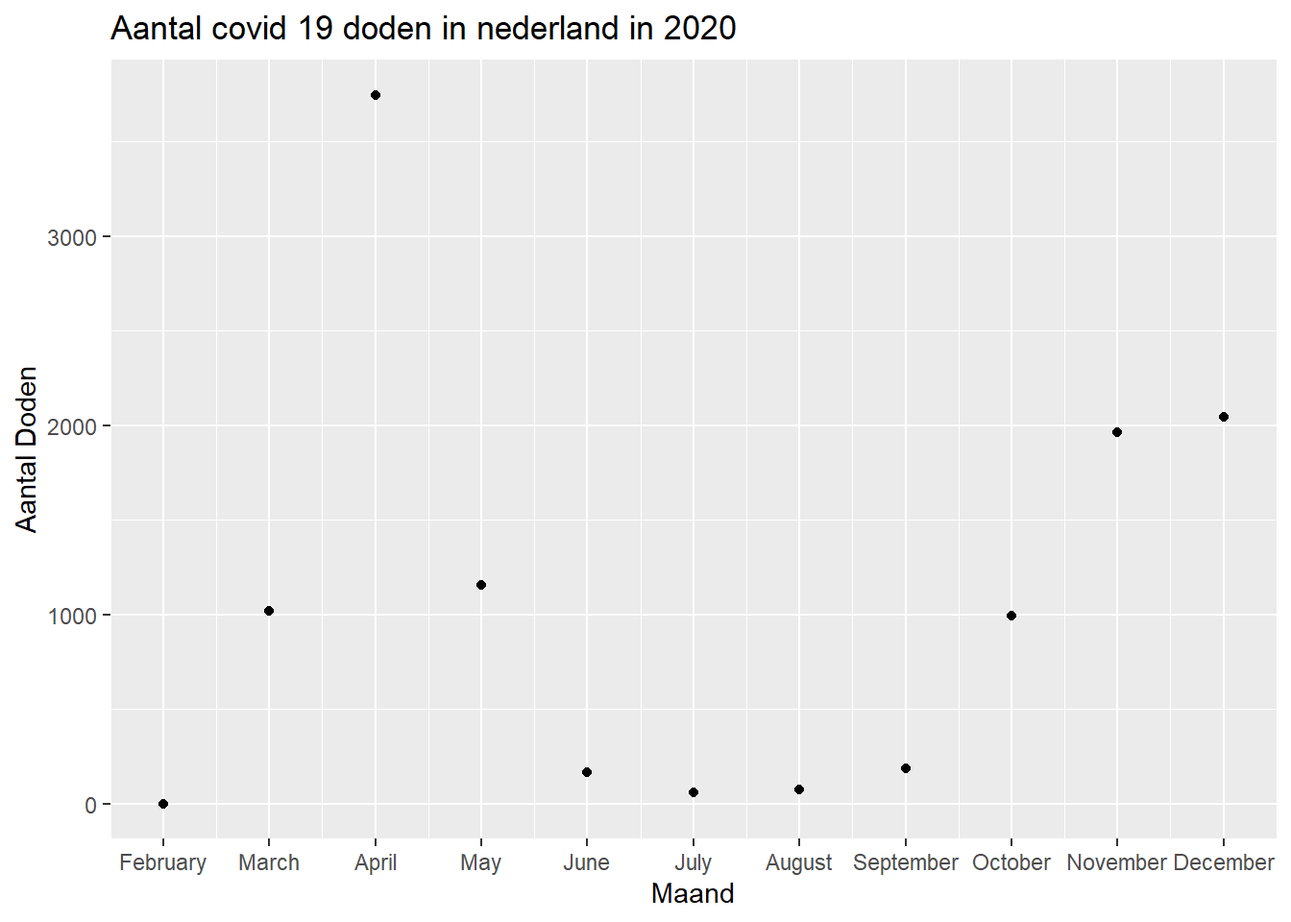
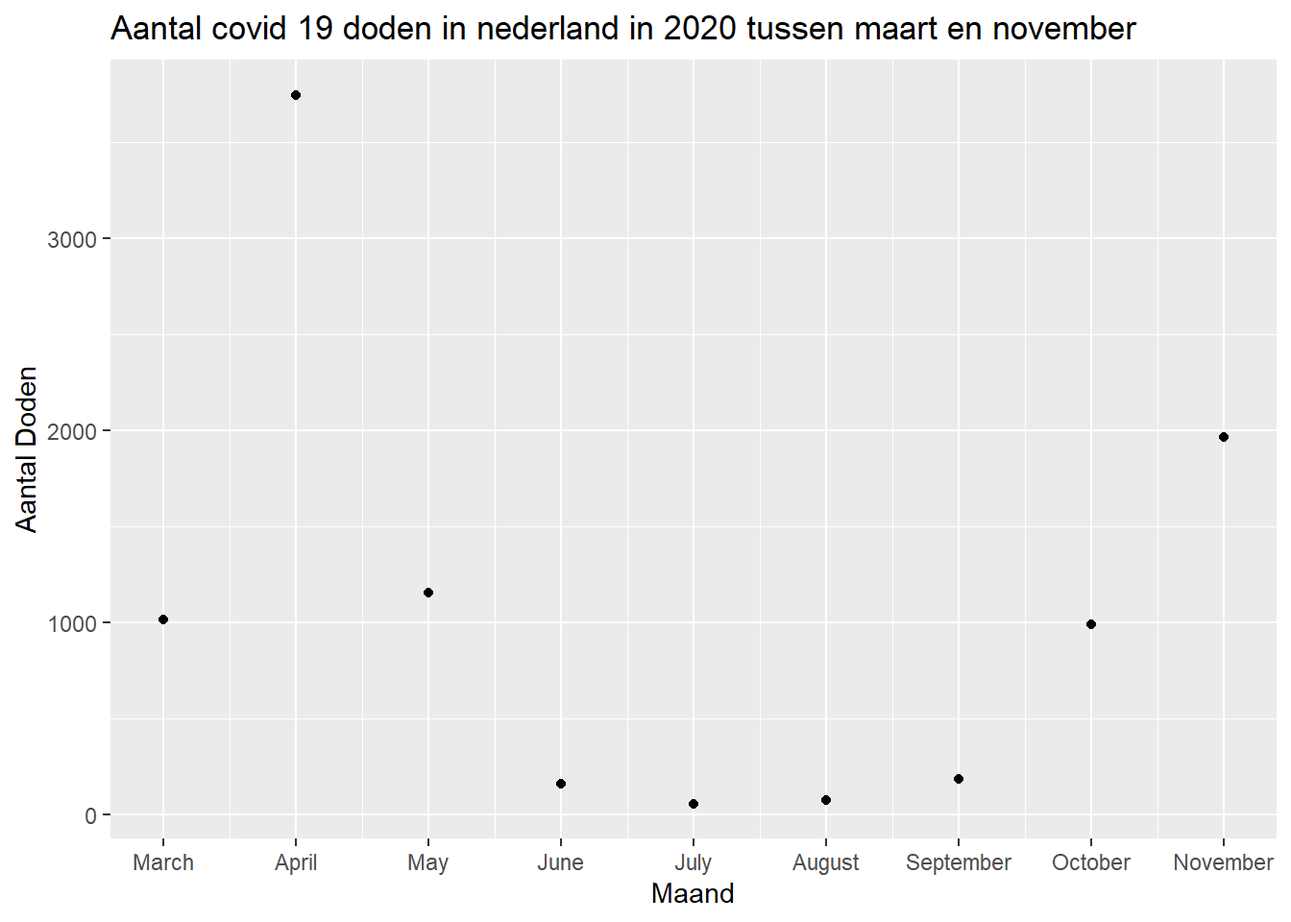
toevoegen opdracht 9 met parametrisering

diff --git a/Portfolio/_book/opdracht-9-rmarkdown-parameters-presentations.html b/Portfolio/_book/opdracht-9-rmarkdown-parameters-presentations.html
@@ -156,8 +156,8 @@ code span.wa { color: #60a0b0; font-weight: bold; font-style: italic; } /* Warni
 <li class="chapter" data-level="" data-path="opdracht-8-een-r-package-bouwen.html"><a href="opdracht-8-een-r-package-bouwen.html"><i class="fa fa-check"></i>Opdracht 8: Een R package bouwen</a></li>
 <li class="chapter" data-level="" data-path="opdracht-9-rmarkdown-parameters-presentations.html"><a href="opdracht-9-rmarkdown-parameters-presentations.html"><i class="fa fa-check"></i>Opdracht 9: RMarkdown parameters &amp; presentations</a>
 <ul>
-<li class="chapter" data-level="" data-path="opdracht-9-rmarkdown-parameters-presentations.html"><a href="opdracht-9-rmarkdown-parameters-presentations.html#covid-19-rapport-zonder-parametrisering"><i class="fa fa-check"></i>COVID-19-rapport zonder parametrisering</a></li>
-<li class="chapter" data-level="" data-path="opdracht-9-rmarkdown-parameters-presentations.html"><a href="opdracht-9-rmarkdown-parameters-presentations.html#covid-19-rapport-met-parametrisering"><i class="fa fa-check"></i>COVID-19-rapport met parametrisering</a></li>
+<li class="chapter" data-level="" data-path="opdracht-9-rmarkdown-parameters-presentations.html"><a href="opdracht-9-rmarkdown-parameters-presentations.html#covid-19-rapport-zonder-parametrisering"><i class="fa fa-check"></i>9.1: COVID-19-rapport zonder parametrisering</a></li>
+<li class="chapter" data-level="" data-path="opdracht-9-rmarkdown-parameters-presentations.html"><a href="opdracht-9-rmarkdown-parameters-presentations.html#covid-19-rapport-met-parametrisering"><i class="fa fa-check"></i>9.2: COVID-19-rapport met parametrisering</a></li>
 </ul></li>
 </ul>
 
@@ -180,47 +180,106 @@ code span.wa { color: #60a0b0; font-weight: bold; font-style: italic; } /* Warni
 <h1>Opdracht 9: RMarkdown parameters &amp; presentations<a href="opdracht-9-rmarkdown-parameters-presentations.html#opdracht-9-rmarkdown-parameters-presentations" class="anchor-section" aria-label="Anchor link to header"></a></h1>
 <p>In deze opdracht zal er een geparametriseert rapport gecreëerd worden voor COVID-19-gevallen. Het rapport zal interactief zijn, zodat gebruikers parameters kunnen instellen zoals land, jaar en periode. We zullen gebruikmaken van COVID-19-casegegevens van het ECDC en grafieken tonen voor gevallen en sterfgevallen. Het uiteindelijke rapport zal een flexibel en informatief middel zijn om COVID-19-gegevens te verkennen op basis van specifieke criteria.</p>
 <div id="covid-19-rapport-zonder-parametrisering" class="section level2 hasAnchor">
-<h2>COVID-19-rapport zonder parametrisering<a href="opdracht-9-rmarkdown-parameters-presentations.html#covid-19-rapport-zonder-parametrisering" class="anchor-section" aria-label="Anchor link to header"></a></h2>
+<h2>9.1: COVID-19-rapport zonder parametrisering<a href="opdracht-9-rmarkdown-parameters-presentations.html#covid-19-rapport-zonder-parametrisering" class="anchor-section" aria-label="Anchor link to header"></a></h2>
 <p>Eerst wordt de data ingeladen, omdat het een CSV bestand is wordt er gebruik gemaakt van de read.csv functie.</p>
 <div class="sourceCode" id="cb2"><pre class="sourceCode r"><code class="sourceCode r"><span id="cb2-1"><a href="opdracht-9-rmarkdown-parameters-presentations.html#cb2-1" aria-hidden="true" tabindex="-1"></a><span class="co"># inlezen van de data</span></span>
 <span id="cb2-2"><a href="opdracht-9-rmarkdown-parameters-presentations.html#cb2-2" aria-hidden="true" tabindex="-1"></a>covid_19_data <span class="ot">&lt;-</span> <span class="fu">read.csv</span>(<span class="st">&quot;~/HU_ILC_DS2/Datascience2_portfolio/data/data_portfolio_opdracht_9.csv&quot;</span>)</span></code></pre></div>
-<p>Vervolgens moet de data geselecteerd worden. Er is hier gekozen voor covid 19 gevallen en doden in 2020 in Nederland.</p>
-<div class="sourceCode" id="cb3"><pre class="sourceCode r"><code class="sourceCode r"><span id="cb3-1"><a href="opdracht-9-rmarkdown-parameters-presentations.html#cb3-1" aria-hidden="true" tabindex="-1"></a><span class="co">#dataset filteren voor 2020 en Nederland</span></span>
+<p>Vervolgens moet de data geselecteerd worden. Er is hier gekozen voor covid 19 gevallen en doden in 2020 in Nederland in de periode maart tot november.</p>
+<div class="sourceCode" id="cb3"><pre class="sourceCode r"><code class="sourceCode r"><span id="cb3-1"><a href="opdracht-9-rmarkdown-parameters-presentations.html#cb3-1" aria-hidden="true" tabindex="-1"></a><span class="co">#dataset filteren voor 2020 Nederland, en periode maart tot november</span></span>
 <span id="cb3-2"><a href="opdracht-9-rmarkdown-parameters-presentations.html#cb3-2" aria-hidden="true" tabindex="-1"></a>covid_19_data_filtered <span class="ot">&lt;-</span> covid_19_data <span class="sc">%&gt;%</span></span>
 <span id="cb3-3"><a href="opdracht-9-rmarkdown-parameters-presentations.html#cb3-3" aria-hidden="true" tabindex="-1"></a>  <span class="fu">filter</span>(year <span class="sc">==</span> <span class="dv">2020</span>,</span>
-<span id="cb3-4"><a href="opdracht-9-rmarkdown-parameters-presentations.html#cb3-4" aria-hidden="true" tabindex="-1"></a>  countriesAndTerritories <span class="sc">==</span> <span class="st">&quot;Netherlands&quot;</span>, )</span>
-<span id="cb3-5"><a href="opdracht-9-rmarkdown-parameters-presentations.html#cb3-5" aria-hidden="true" tabindex="-1"></a></span>
-<span id="cb3-6"><a href="opdracht-9-rmarkdown-parameters-presentations.html#cb3-6" aria-hidden="true" tabindex="-1"></a><span class="co">#berekenen van cases per maand</span></span>
-<span id="cb3-7"><a href="opdracht-9-rmarkdown-parameters-presentations.html#cb3-7" aria-hidden="true" tabindex="-1"></a>cases_per_maand <span class="ot">&lt;-</span> covid_19_data_filtered <span class="sc">%&gt;%</span></span>
-<span id="cb3-8"><a href="opdracht-9-rmarkdown-parameters-presentations.html#cb3-8" aria-hidden="true" tabindex="-1"></a>  <span class="fu">group_by</span>(month) <span class="sc">%&gt;%</span></span>
-<span id="cb3-9"><a href="opdracht-9-rmarkdown-parameters-presentations.html#cb3-9" aria-hidden="true" tabindex="-1"></a>  <span class="fu">summarise</span>(<span class="at">cases_per_maand =</span> <span class="fu">sum</span>(cases))</span>
-<span id="cb3-10"><a href="opdracht-9-rmarkdown-parameters-presentations.html#cb3-10" aria-hidden="true" tabindex="-1"></a></span>
+<span id="cb3-4"><a href="opdracht-9-rmarkdown-parameters-presentations.html#cb3-4" aria-hidden="true" tabindex="-1"></a>  countriesAndTerritories <span class="sc">==</span> <span class="st">&quot;Netherlands&quot;</span>, </span>
+<span id="cb3-5"><a href="opdracht-9-rmarkdown-parameters-presentations.html#cb3-5" aria-hidden="true" tabindex="-1"></a>  <span class="fu">between</span>(month, <span class="dv">3</span>, <span class="dv">11</span>), )</span>
+<span id="cb3-6"><a href="opdracht-9-rmarkdown-parameters-presentations.html#cb3-6" aria-hidden="true" tabindex="-1"></a>         </span>
+<span id="cb3-7"><a href="opdracht-9-rmarkdown-parameters-presentations.html#cb3-7" aria-hidden="true" tabindex="-1"></a><span class="co">#berekenen van het aantal cases per maand</span></span>
+<span id="cb3-8"><a href="opdracht-9-rmarkdown-parameters-presentations.html#cb3-8" aria-hidden="true" tabindex="-1"></a>cases_per_maand <span class="ot">&lt;-</span> covid_19_data_filtered <span class="sc">%&gt;%</span></span>
+<span id="cb3-9"><a href="opdracht-9-rmarkdown-parameters-presentations.html#cb3-9" aria-hidden="true" tabindex="-1"></a>  <span class="fu">group_by</span>(month) <span class="sc">%&gt;%</span></span>
+<span id="cb3-10"><a href="opdracht-9-rmarkdown-parameters-presentations.html#cb3-10" aria-hidden="true" tabindex="-1"></a>  <span class="fu">summarise</span>(<span class="at">cases_per_maand =</span> <span class="fu">sum</span>(cases))</span>
 <span id="cb3-11"><a href="opdracht-9-rmarkdown-parameters-presentations.html#cb3-11" aria-hidden="true" tabindex="-1"></a></span>
-<span id="cb3-12"><a href="opdracht-9-rmarkdown-parameters-presentations.html#cb3-12" aria-hidden="true" tabindex="-1"></a><span class="co">#berekenen van deaths per maand</span></span>
-<span id="cb3-13"><a href="opdracht-9-rmarkdown-parameters-presentations.html#cb3-13" aria-hidden="true" tabindex="-1"></a>deaths_per_maand <span class="ot">&lt;-</span> covid_19_data_filtered <span class="sc">%&gt;%</span></span>
-<span id="cb3-14"><a href="opdracht-9-rmarkdown-parameters-presentations.html#cb3-14" aria-hidden="true" tabindex="-1"></a>  <span class="fu">group_by</span>(month) <span class="sc">%&gt;%</span></span>
-<span id="cb3-15"><a href="opdracht-9-rmarkdown-parameters-presentations.html#cb3-15" aria-hidden="true" tabindex="-1"></a>  <span class="fu">summarise</span>(<span class="at">deaths_per_maand =</span> <span class="fu">sum</span>(deaths))</span></code></pre></div>
+<span id="cb3-12"><a href="opdracht-9-rmarkdown-parameters-presentations.html#cb3-12" aria-hidden="true" tabindex="-1"></a></span>
+<span id="cb3-13"><a href="opdracht-9-rmarkdown-parameters-presentations.html#cb3-13" aria-hidden="true" tabindex="-1"></a><span class="co">#berekenen van het aantal doden per maand</span></span>
+<span id="cb3-14"><a href="opdracht-9-rmarkdown-parameters-presentations.html#cb3-14" aria-hidden="true" tabindex="-1"></a>deaths_per_maand <span class="ot">&lt;-</span> covid_19_data_filtered <span class="sc">%&gt;%</span></span>
+<span id="cb3-15"><a href="opdracht-9-rmarkdown-parameters-presentations.html#cb3-15" aria-hidden="true" tabindex="-1"></a>  <span class="fu">group_by</span>(month) <span class="sc">%&gt;%</span></span>
+<span id="cb3-16"><a href="opdracht-9-rmarkdown-parameters-presentations.html#cb3-16" aria-hidden="true" tabindex="-1"></a>  <span class="fu">summarise</span>(<span class="at">deaths_per_maand =</span> <span class="fu">sum</span>(deaths))</span></code></pre></div>
 <p>Tot slot kan de verkregen data geplot worden, hiervoor wordt ggplot2 gebruikt. om de maanden te weergeven in de juiste volgorde is de regel;
 “r scale_x_continuous(breaks = 1:12, labels = month.name) +”
 toegevoegd. deze regel zorgt ervoor dat de x-as van een plot met continue data wordt aangepast.</p>
-<div class="sourceCode" id="cb4"><pre class="sourceCode r"><code class="sourceCode r"><span id="cb4-1"><a href="opdracht-9-rmarkdown-parameters-presentations.html#cb4-1" aria-hidden="true" tabindex="-1"></a><span class="fu">ggplot</span>(cases_per_maand, <span class="fu">aes</span>(<span class="at">x =</span> month, <span class="at">y =</span> cases_per_maand)) <span class="sc">+</span> </span>
-<span id="cb4-2"><a href="opdracht-9-rmarkdown-parameters-presentations.html#cb4-2" aria-hidden="true" tabindex="-1"></a>  <span class="fu">geom_point</span>() <span class="sc">+</span></span>
-<span id="cb4-3"><a href="opdracht-9-rmarkdown-parameters-presentations.html#cb4-3" aria-hidden="true" tabindex="-1"></a>  <span class="fu">scale_x_continuous</span>(<span class="at">breaks =</span> <span class="dv">1</span><span class="sc">:</span><span class="dv">12</span>, <span class="at">labels =</span> month.name) <span class="sc">+</span></span>
-<span id="cb4-4"><a href="opdracht-9-rmarkdown-parameters-presentations.html#cb4-4" aria-hidden="true" tabindex="-1"></a>  <span class="fu">labs</span>(<span class="at">title =</span> <span class="st">&quot;Aantal covid 19 gevallen in nederland in 2020&quot;</span>,</span>
-<span id="cb4-5"><a href="opdracht-9-rmarkdown-parameters-presentations.html#cb4-5" aria-hidden="true" tabindex="-1"></a>       <span class="at">x =</span> <span class="st">&quot;Maand&quot;</span>,</span>
-<span id="cb4-6"><a href="opdracht-9-rmarkdown-parameters-presentations.html#cb4-6" aria-hidden="true" tabindex="-1"></a>       <span class="at">y =</span> <span class="st">&quot;Aantal Gevallen&quot;</span>)</span></code></pre></div>
+<div class="sourceCode" id="cb4"><pre class="sourceCode r"><code class="sourceCode r"><span id="cb4-1"><a href="opdracht-9-rmarkdown-parameters-presentations.html#cb4-1" aria-hidden="true" tabindex="-1"></a><span class="co"># plot voor het aantal cases per maand</span></span>
+<span id="cb4-2"><a href="opdracht-9-rmarkdown-parameters-presentations.html#cb4-2" aria-hidden="true" tabindex="-1"></a><span class="fu">ggplot</span>(cases_per_maand, <span class="fu">aes</span>(<span class="at">x =</span> month, <span class="at">y =</span> cases_per_maand)) <span class="sc">+</span> </span>
+<span id="cb4-3"><a href="opdracht-9-rmarkdown-parameters-presentations.html#cb4-3" aria-hidden="true" tabindex="-1"></a>  <span class="fu">geom_point</span>() <span class="sc">+</span></span>
+<span id="cb4-4"><a href="opdracht-9-rmarkdown-parameters-presentations.html#cb4-4" aria-hidden="true" tabindex="-1"></a>  <span class="fu">scale_x_continuous</span>(<span class="at">breaks =</span> <span class="dv">1</span><span class="sc">:</span><span class="dv">12</span>, <span class="at">labels =</span> month.name) <span class="sc">+</span></span>
+<span id="cb4-5"><a href="opdracht-9-rmarkdown-parameters-presentations.html#cb4-5" aria-hidden="true" tabindex="-1"></a>  <span class="fu">labs</span>(<span class="at">title =</span> <span class="st">&quot;Aantal covid 19 gevallen in nederland in 2020 tussen maart en november&quot;</span>,</span>
+<span id="cb4-6"><a href="opdracht-9-rmarkdown-parameters-presentations.html#cb4-6" aria-hidden="true" tabindex="-1"></a>       <span class="at">x =</span> <span class="st">&quot;Maand&quot;</span>,</span>
+<span id="cb4-7"><a href="opdracht-9-rmarkdown-parameters-presentations.html#cb4-7" aria-hidden="true" tabindex="-1"></a>       <span class="at">y =</span> <span class="st">&quot;Aantal Gevallen&quot;</span>)</span></code></pre></div>
 <p><img src="_main_files/figure-html/plots-1.png" width="672" /></p>
-<div class="sourceCode" id="cb5"><pre class="sourceCode r"><code class="sourceCode r"><span id="cb5-1"><a href="opdracht-9-rmarkdown-parameters-presentations.html#cb5-1" aria-hidden="true" tabindex="-1"></a><span class="fu">ggplot</span>(deaths_per_maand, <span class="fu">aes</span>(<span class="at">x =</span> month, <span class="at">y =</span> deaths_per_maand)) <span class="sc">+</span> </span>
-<span id="cb5-2"><a href="opdracht-9-rmarkdown-parameters-presentations.html#cb5-2" aria-hidden="true" tabindex="-1"></a>  <span class="fu">geom_point</span>() <span class="sc">+</span></span>
-<span id="cb5-3"><a href="opdracht-9-rmarkdown-parameters-presentations.html#cb5-3" aria-hidden="true" tabindex="-1"></a>  <span class="fu">scale_x_continuous</span>(<span class="at">breaks =</span> <span class="dv">1</span><span class="sc">:</span><span class="dv">12</span>, <span class="at">labels =</span> month.name) <span class="sc">+</span></span>
-<span id="cb5-4"><a href="opdracht-9-rmarkdown-parameters-presentations.html#cb5-4" aria-hidden="true" tabindex="-1"></a>  <span class="fu">labs</span>(<span class="at">title =</span> <span class="st">&quot;Aantal covid 19 doden in nederland in 2020&quot;</span>,</span>
-<span id="cb5-5"><a href="opdracht-9-rmarkdown-parameters-presentations.html#cb5-5" aria-hidden="true" tabindex="-1"></a>       <span class="at">x =</span> <span class="st">&quot;Maand&quot;</span>,</span>
-<span id="cb5-6"><a href="opdracht-9-rmarkdown-parameters-presentations.html#cb5-6" aria-hidden="true" tabindex="-1"></a>       <span class="at">y =</span> <span class="st">&quot;Aantal Doden&quot;</span>)</span></code></pre></div>
+<div class="sourceCode" id="cb5"><pre class="sourceCode r"><code class="sourceCode r"><span id="cb5-1"><a href="opdracht-9-rmarkdown-parameters-presentations.html#cb5-1" aria-hidden="true" tabindex="-1"></a><span class="co"># plot voor het aantal doden per maand</span></span>
+<span id="cb5-2"><a href="opdracht-9-rmarkdown-parameters-presentations.html#cb5-2" aria-hidden="true" tabindex="-1"></a><span class="fu">ggplot</span>(deaths_per_maand, <span class="fu">aes</span>(<span class="at">x =</span> month, <span class="at">y =</span> deaths_per_maand)) <span class="sc">+</span> </span>
+<span id="cb5-3"><a href="opdracht-9-rmarkdown-parameters-presentations.html#cb5-3" aria-hidden="true" tabindex="-1"></a>  <span class="fu">geom_point</span>() <span class="sc">+</span></span>
+<span id="cb5-4"><a href="opdracht-9-rmarkdown-parameters-presentations.html#cb5-4" aria-hidden="true" tabindex="-1"></a>  <span class="fu">scale_x_continuous</span>(<span class="at">breaks =</span> <span class="dv">1</span><span class="sc">:</span><span class="dv">12</span>, <span class="at">labels =</span> month.name) <span class="sc">+</span></span>
+<span id="cb5-5"><a href="opdracht-9-rmarkdown-parameters-presentations.html#cb5-5" aria-hidden="true" tabindex="-1"></a>  <span class="fu">labs</span>(<span class="at">title =</span> <span class="st">&quot;Aantal covid 19 doden in nederland in 2020 tussen maart en november&quot;</span>,</span>
+<span id="cb5-6"><a href="opdracht-9-rmarkdown-parameters-presentations.html#cb5-6" aria-hidden="true" tabindex="-1"></a>       <span class="at">x =</span> <span class="st">&quot;Maand&quot;</span>,</span>
+<span id="cb5-7"><a href="opdracht-9-rmarkdown-parameters-presentations.html#cb5-7" aria-hidden="true" tabindex="-1"></a>       <span class="at">y =</span> <span class="st">&quot;Aantal Doden&quot;</span>)</span></code></pre></div>
 <p><img src="_main_files/figure-html/plots-2.png" width="672" /></p>
 </div>
 <div id="covid-19-rapport-met-parametrisering" class="section level2 hasAnchor">
-<h2>COVID-19-rapport met parametrisering<a href="opdracht-9-rmarkdown-parameters-presentations.html#covid-19-rapport-met-parametrisering" class="anchor-section" aria-label="Anchor link to header"></a></h2>
-<p>je moeder</p>
+<h2>9.2: COVID-19-rapport met parametrisering<a href="opdracht-9-rmarkdown-parameters-presentations.html#covid-19-rapport-met-parametrisering" class="anchor-section" aria-label="Anchor link to header"></a></h2>
+<p>Eerst wordt de data ingeladen, omdat het een CSV bestand is wordt er gebruik gemaakt van de read.csv functie.</p>
+<div class="sourceCode" id="cb6"><pre class="sourceCode r"><code class="sourceCode r"><span id="cb6-1"><a href="opdracht-9-rmarkdown-parameters-presentations.html#cb6-1" aria-hidden="true" tabindex="-1"></a><span class="co"># inlezen van de data</span></span>
+<span id="cb6-2"><a href="opdracht-9-rmarkdown-parameters-presentations.html#cb6-2" aria-hidden="true" tabindex="-1"></a>covid_19_data_2 <span class="ot">&lt;-</span> <span class="fu">read.csv</span>(<span class="st">&quot;~/HU_ILC_DS2/Datascience2_portfolio/data/data_portfolio_opdracht_9.csv&quot;</span>)</span>
+<span id="cb6-3"><a href="opdracht-9-rmarkdown-parameters-presentations.html#cb6-3" aria-hidden="true" tabindex="-1"></a></span>
+<span id="cb6-4"><a href="opdracht-9-rmarkdown-parameters-presentations.html#cb6-4" aria-hidden="true" tabindex="-1"></a><span class="co"># maak een object van de parameters</span></span>
+<span id="cb6-5"><a href="opdracht-9-rmarkdown-parameters-presentations.html#cb6-5" aria-hidden="true" tabindex="-1"></a>param_country <span class="ot">&lt;-</span> params<span class="sc">$</span>country</span>
+<span id="cb6-6"><a href="opdracht-9-rmarkdown-parameters-presentations.html#cb6-6" aria-hidden="true" tabindex="-1"></a>param_year <span class="ot">&lt;-</span> params<span class="sc">$</span>year</span></code></pre></div>
+<p>Vervolgens moet er verder gewerkt worden met parametrisering. er wordt hier gebruikt gemaakt met de params; country: “Austria”, year: 2020 en period: “3-11”. Deze zijn aan te passen in het bestand index.rmd naar een ander param. als je bijvoorbeeld “Austria” veranderd voor “Netherlands” zullen de gegevens voor Nederland gegeven worden.</p>
+<p>Bij deze params moeten vervolgens ook de cases en deaths per maand berekend worden</p>
+<div class="sourceCode" id="cb7"><pre class="sourceCode r"><code class="sourceCode r"><span id="cb7-1"><a href="opdracht-9-rmarkdown-parameters-presentations.html#cb7-1" aria-hidden="true" tabindex="-1"></a><span class="co"># dataset filteren voor gegeven parameters</span></span>
+<span id="cb7-2"><a href="opdracht-9-rmarkdown-parameters-presentations.html#cb7-2" aria-hidden="true" tabindex="-1"></a>covid_19_data_filtered_2 <span class="ot">&lt;-</span> covid_19_data_2 <span class="sc">%&gt;%</span></span>
+<span id="cb7-3"><a href="opdracht-9-rmarkdown-parameters-presentations.html#cb7-3" aria-hidden="true" tabindex="-1"></a>  <span class="fu">filter</span>(year <span class="sc">==</span> param_year,</span>
+<span id="cb7-4"><a href="opdracht-9-rmarkdown-parameters-presentations.html#cb7-4" aria-hidden="true" tabindex="-1"></a>         countriesAndTerritories <span class="sc">==</span> param_country, )</span>
+<span id="cb7-5"><a href="opdracht-9-rmarkdown-parameters-presentations.html#cb7-5" aria-hidden="true" tabindex="-1"></a></span>
+<span id="cb7-6"><a href="opdracht-9-rmarkdown-parameters-presentations.html#cb7-6" aria-hidden="true" tabindex="-1"></a><span class="co"># Splitten van de periode in start- en eindmaand</span></span>
+<span id="cb7-7"><a href="opdracht-9-rmarkdown-parameters-presentations.html#cb7-7" aria-hidden="true" tabindex="-1"></a>period_parts <span class="ot">&lt;-</span> <span class="fu">strsplit</span>(params<span class="sc">$</span>period, <span class="st">&quot;-&quot;</span>)[[<span class="dv">1</span>]]</span>
+<span id="cb7-8"><a href="opdracht-9-rmarkdown-parameters-presentations.html#cb7-8" aria-hidden="true" tabindex="-1"></a>start_month <span class="ot">&lt;-</span> <span class="fu">as.integer</span>(period_parts[<span class="dv">1</span>])</span>
+<span id="cb7-9"><a href="opdracht-9-rmarkdown-parameters-presentations.html#cb7-9" aria-hidden="true" tabindex="-1"></a>end_month <span class="ot">&lt;-</span> <span class="fu">as.integer</span>(period_parts[<span class="dv">2</span>])</span>
+<span id="cb7-10"><a href="opdracht-9-rmarkdown-parameters-presentations.html#cb7-10" aria-hidden="true" tabindex="-1"></a></span>
+<span id="cb7-11"><a href="opdracht-9-rmarkdown-parameters-presentations.html#cb7-11" aria-hidden="true" tabindex="-1"></a><span class="co"># Dataset filteren op de opgegeven periode</span></span>
+<span id="cb7-12"><a href="opdracht-9-rmarkdown-parameters-presentations.html#cb7-12" aria-hidden="true" tabindex="-1"></a>covid_19_data_filtered_3 <span class="ot">&lt;-</span> covid_19_data_filtered_2 <span class="sc">%&gt;%</span></span>
+<span id="cb7-13"><a href="opdracht-9-rmarkdown-parameters-presentations.html#cb7-13" aria-hidden="true" tabindex="-1"></a>  <span class="fu">filter</span>(month <span class="sc">&gt;=</span> start_month,</span>
+<span id="cb7-14"><a href="opdracht-9-rmarkdown-parameters-presentations.html#cb7-14" aria-hidden="true" tabindex="-1"></a>         month <span class="sc">&lt;=</span> end_month)</span>
+<span id="cb7-15"><a href="opdracht-9-rmarkdown-parameters-presentations.html#cb7-15" aria-hidden="true" tabindex="-1"></a></span>
+<span id="cb7-16"><a href="opdracht-9-rmarkdown-parameters-presentations.html#cb7-16" aria-hidden="true" tabindex="-1"></a><span class="co"># berekenen van het aantal cases per maand</span></span>
+<span id="cb7-17"><a href="opdracht-9-rmarkdown-parameters-presentations.html#cb7-17" aria-hidden="true" tabindex="-1"></a>cases_per_maand_2 <span class="ot">&lt;-</span> covid_19_data_filtered_3 <span class="sc">%&gt;%</span></span>
+<span id="cb7-18"><a href="opdracht-9-rmarkdown-parameters-presentations.html#cb7-18" aria-hidden="true" tabindex="-1"></a>  <span class="fu">group_by</span>(month) <span class="sc">%&gt;%</span></span>
+<span id="cb7-19"><a href="opdracht-9-rmarkdown-parameters-presentations.html#cb7-19" aria-hidden="true" tabindex="-1"></a>  <span class="fu">summarise</span>(<span class="at">cases_per_maand =</span> <span class="fu">sum</span>(cases))</span>
+<span id="cb7-20"><a href="opdracht-9-rmarkdown-parameters-presentations.html#cb7-20" aria-hidden="true" tabindex="-1"></a></span>
+<span id="cb7-21"><a href="opdracht-9-rmarkdown-parameters-presentations.html#cb7-21" aria-hidden="true" tabindex="-1"></a></span>
+<span id="cb7-22"><a href="opdracht-9-rmarkdown-parameters-presentations.html#cb7-22" aria-hidden="true" tabindex="-1"></a><span class="co"># berekenen van het aantal doden per maand</span></span>
+<span id="cb7-23"><a href="opdracht-9-rmarkdown-parameters-presentations.html#cb7-23" aria-hidden="true" tabindex="-1"></a>deaths_per_maand_2 <span class="ot">&lt;-</span> covid_19_data_filtered_3 <span class="sc">%&gt;%</span></span>
+<span id="cb7-24"><a href="opdracht-9-rmarkdown-parameters-presentations.html#cb7-24" aria-hidden="true" tabindex="-1"></a>  <span class="fu">group_by</span>(month) <span class="sc">%&gt;%</span></span>
+<span id="cb7-25"><a href="opdracht-9-rmarkdown-parameters-presentations.html#cb7-25" aria-hidden="true" tabindex="-1"></a>  <span class="fu">summarise</span>(<span class="at">deaths_per_maand =</span> <span class="fu">sum</span>(deaths))</span></code></pre></div>
+<p>om de namen van de maanden in de gekozen periode te kunnen weergeven moeten de getallen omgezet worden naar de namen, dit kan als volgt;</p>
+<div class="sourceCode" id="cb8"><pre class="sourceCode r"><code class="sourceCode r"><span id="cb8-1"><a href="opdracht-9-rmarkdown-parameters-presentations.html#cb8-1" aria-hidden="true" tabindex="-1"></a><span class="co"># verandanderen van numerieke waarde van de maand naar de naam van de maand</span></span>
+<span id="cb8-2"><a href="opdracht-9-rmarkdown-parameters-presentations.html#cb8-2" aria-hidden="true" tabindex="-1"></a>month_name_start <span class="ot">&lt;-</span> month.name[start_month]</span>
+<span id="cb8-3"><a href="opdracht-9-rmarkdown-parameters-presentations.html#cb8-3" aria-hidden="true" tabindex="-1"></a>month_name_end <span class="ot">&lt;-</span> month.name[end_month]</span></code></pre></div>
+<p>Tot slot kan de verkregen data geplot worden, hiervoor wordt ggplot2 gebruikt. om de maanden te weergeven in de juiste volgorde is de regel;
+“r scale_x_continuous(breaks = 1:12, labels = month.name) +”
+toegevoegd. deze regel zorgt ervoor dat de x-as van een plot met continue data wordt aangepast.</p>
+<div class="sourceCode" id="cb9"><pre class="sourceCode r"><code class="sourceCode r"><span id="cb9-1"><a href="opdracht-9-rmarkdown-parameters-presentations.html#cb9-1" aria-hidden="true" tabindex="-1"></a><span class="co">#plot voor het aantal cases per parameter</span></span>
+<span id="cb9-2"><a href="opdracht-9-rmarkdown-parameters-presentations.html#cb9-2" aria-hidden="true" tabindex="-1"></a><span class="fu">ggplot</span>(cases_per_maand_2, <span class="fu">aes</span>(<span class="at">x =</span> month, <span class="at">y =</span> cases_per_maand)) <span class="sc">+</span> </span>
+<span id="cb9-3"><a href="opdracht-9-rmarkdown-parameters-presentations.html#cb9-3" aria-hidden="true" tabindex="-1"></a>  <span class="fu">geom_point</span>() <span class="sc">+</span></span>
+<span id="cb9-4"><a href="opdracht-9-rmarkdown-parameters-presentations.html#cb9-4" aria-hidden="true" tabindex="-1"></a>  <span class="fu">scale_x_continuous</span>(<span class="at">breaks =</span> <span class="dv">1</span><span class="sc">:</span><span class="dv">12</span>, <span class="at">labels =</span> month.name) <span class="sc">+</span></span>
+<span id="cb9-5"><a href="opdracht-9-rmarkdown-parameters-presentations.html#cb9-5" aria-hidden="true" tabindex="-1"></a>  <span class="fu">labs</span>(<span class="at">title =</span> <span class="fu">paste</span>(<span class="st">&quot;Aantal COVID-19 doden in&quot;</span>, param_country, <span class="st">&quot;in&quot;</span>, param_year, <span class="st">&quot;in de periode&quot;</span>, month_name_start, <span class="st">&quot;tot&quot;</span>, month_name_end),</span>
+<span id="cb9-6"><a href="opdracht-9-rmarkdown-parameters-presentations.html#cb9-6" aria-hidden="true" tabindex="-1"></a>       <span class="at">x =</span> <span class="st">&quot;Maand&quot;</span>,</span>
+<span id="cb9-7"><a href="opdracht-9-rmarkdown-parameters-presentations.html#cb9-7" aria-hidden="true" tabindex="-1"></a>       <span class="at">y =</span> <span class="st">&quot;Aantal Gevallen&quot;</span>)</span></code></pre></div>
+<p><img src="_main_files/figure-html/plots%202-1.png" width="672" /></p>
+<div class="sourceCode" id="cb10"><pre class="sourceCode r"><code class="sourceCode r"><span id="cb10-1"><a href="opdracht-9-rmarkdown-parameters-presentations.html#cb10-1" aria-hidden="true" tabindex="-1"></a><span class="co"># plot voor het aantal doden per parameter</span></span>
+<span id="cb10-2"><a href="opdracht-9-rmarkdown-parameters-presentations.html#cb10-2" aria-hidden="true" tabindex="-1"></a><span class="fu">ggplot</span>(deaths_per_maand_2, <span class="fu">aes</span>(<span class="at">x =</span> month, <span class="at">y =</span> deaths_per_maand)) <span class="sc">+</span> </span>
+<span id="cb10-3"><a href="opdracht-9-rmarkdown-parameters-presentations.html#cb10-3" aria-hidden="true" tabindex="-1"></a>  <span class="fu">geom_point</span>() <span class="sc">+</span></span>
+<span id="cb10-4"><a href="opdracht-9-rmarkdown-parameters-presentations.html#cb10-4" aria-hidden="true" tabindex="-1"></a>  <span class="fu">scale_x_continuous</span>(<span class="at">breaks =</span> <span class="dv">1</span><span class="sc">:</span><span class="dv">12</span>, <span class="at">labels =</span> month.name) <span class="sc">+</span></span>
+<span id="cb10-5"><a href="opdracht-9-rmarkdown-parameters-presentations.html#cb10-5" aria-hidden="true" tabindex="-1"></a>  <span class="fu">labs</span>(<span class="at">title =</span>  <span class="fu">paste</span>(<span class="st">&quot;Aantal COVID-19 doden in&quot;</span>, param_country, <span class="st">&quot;in&quot;</span>, param_year, <span class="st">&quot;in de periode&quot;</span>, month_name_start, <span class="st">&quot;tot&quot;</span>, month_name_end),</span>
+<span id="cb10-6"><a href="opdracht-9-rmarkdown-parameters-presentations.html#cb10-6" aria-hidden="true" tabindex="-1"></a>       <span class="at">x =</span> <span class="st">&quot;Maand&quot;</span>,</span>
+<span id="cb10-7"><a href="opdracht-9-rmarkdown-parameters-presentations.html#cb10-7" aria-hidden="true" tabindex="-1"></a>       <span class="at">y =</span> <span class="st">&quot;Aantal Doden&quot;</span>)</span></code></pre></div>
+<p><img src="_main_files/figure-html/plots%202-2.png" width="672" /></p>
 
 </div>
 </div>

diff --git a/Portfolio/_book/index.html b/Portfolio/_book/index.html
@@ -121,28 +121,6 @@ code span.wa { color: #60a0b0; font-weight: bold; font-style: italic; } /* Warni
   
   div.hanging-indent{margin-left: 1.5em; text-indent: -1.5em;}
 </style>
-<style type="text/css">
-/* Used with Pandoc 2.11+ new --citeproc when CSL is used */
-div.csl-bib-body { }
-div.csl-entry {
-  clear: both;
-}
-.hanging div.csl-entry {
-  margin-left:2em;
-  text-indent:-2em;
-}
-div.csl-left-margin {
-  min-width:2em;
-  float:left;
-}
-div.csl-right-inline {
-  margin-left:2em;
-  padding-left:1em;
-}
-div.csl-indent {
-  margin-left: 2em;
-}
-</style>
 
 </head>
 
@@ -176,10 +154,10 @@ div.csl-indent {
 <li class="chapter" data-level="" data-path="opdracht-6-output-pages.html"><a href="opdracht-6-output-pages.html"><i class="fa fa-check"></i>Opdracht 6: Output pages</a></li>
 <li class="chapter" data-level="" data-path="opdracht-7-relationele-data-en-databases.html"><a href="opdracht-7-relationele-data-en-databases.html"><i class="fa fa-check"></i>Opdracht 7: Relationele data en databases</a></li>
 <li class="chapter" data-level="" data-path="opdracht-8-een-r-package-bouwen.html"><a href="opdracht-8-een-r-package-bouwen.html"><i class="fa fa-check"></i>Opdracht 8: Een R package bouwen</a></li>
-<li class="chapter" data-level="" data-path="opdracht-9-rmarkdown-parameters-presentations.html"><a href="opdracht-9-rmarkdown-parameters-presentations.html"><i class="fa fa-check"></i>Opdracht 9: RMarkdown parameters &amp; presentations</a>
+<li class="chapter" data-level="" data-path="opdracht-9-rmarkdown-parameters.html"><a href="opdracht-9-rmarkdown-parameters.html"><i class="fa fa-check"></i>Opdracht 9: RMarkdown parameters</a>
 <ul>
-<li class="chapter" data-level="" data-path="opdracht-9-rmarkdown-parameters-presentations.html"><a href="opdracht-9-rmarkdown-parameters-presentations.html#covid-19-rapport-zonder-parametrisering"><i class="fa fa-check"></i>COVID-19-rapport zonder parametrisering</a></li>
-<li class="chapter" data-level="" data-path="opdracht-9-rmarkdown-parameters-presentations.html"><a href="opdracht-9-rmarkdown-parameters-presentations.html#covid-19-rapport-met-parametrisering"><i class="fa fa-check"></i>COVID-19-rapport met parametrisering</a></li>
+<li class="chapter" data-level="" data-path="opdracht-9-rmarkdown-parameters.html"><a href="opdracht-9-rmarkdown-parameters.html#covid-19-rapport-zonder-parametrisering"><i class="fa fa-check"></i>9.1: COVID-19-rapport zonder parametrisering</a></li>
+<li class="chapter" data-level="" data-path="opdracht-9-rmarkdown-parameters.html"><a href="opdracht-9-rmarkdown-parameters.html#covid-19-rapport-met-parametrisering"><i class="fa fa-check"></i>9.2: COVID-19-rapport met parametrisering</a></li>
 </ul></li>
 </ul>
 

diff --git a/Portfolio/_book/404.html b/Portfolio/_book/404.html
@@ -154,10 +154,10 @@ code span.wa { color: #60a0b0; font-weight: bold; font-style: italic; } /* Warni
 <li class="chapter" data-level="" data-path="opdracht-6-output-pages.html"><a href="opdracht-6-output-pages.html"><i class="fa fa-check"></i>Opdracht 6: Output pages</a></li>
 <li class="chapter" data-level="" data-path="opdracht-7-relationele-data-en-databases.html"><a href="opdracht-7-relationele-data-en-databases.html"><i class="fa fa-check"></i>Opdracht 7: Relationele data en databases</a></li>
 <li class="chapter" data-level="" data-path="opdracht-8-een-r-package-bouwen.html"><a href="opdracht-8-een-r-package-bouwen.html"><i class="fa fa-check"></i>Opdracht 8: Een R package bouwen</a></li>
-<li class="chapter" data-level="" data-path="opdracht-9-rmarkdown-parameters-presentations.html"><a href="opdracht-9-rmarkdown-parameters-presentations.html"><i class="fa fa-check"></i>Opdracht 9: RMarkdown parameters &amp; presentations</a>
+<li class="chapter" data-level="" data-path="opdracht-9-rmarkdown-parameters.html"><a href="opdracht-9-rmarkdown-parameters.html"><i class="fa fa-check"></i>Opdracht 9: RMarkdown parameters</a>
 <ul>
-<li class="chapter" data-level="" data-path="opdracht-9-rmarkdown-parameters-presentations.html"><a href="opdracht-9-rmarkdown-parameters-presentations.html#covid-19-rapport-zonder-parametrisering"><i class="fa fa-check"></i>COVID-19-rapport zonder parametrisering</a></li>
-<li class="chapter" data-level="" data-path="opdracht-9-rmarkdown-parameters-presentations.html"><a href="opdracht-9-rmarkdown-parameters-presentations.html#covid-19-rapport-met-parametrisering"><i class="fa fa-check"></i>COVID-19-rapport met parametrisering</a></li>
+<li class="chapter" data-level="" data-path="opdracht-9-rmarkdown-parameters.html"><a href="opdracht-9-rmarkdown-parameters.html#covid-19-rapport-zonder-parametrisering"><i class="fa fa-check"></i>9.1: COVID-19-rapport zonder parametrisering</a></li>
+<li class="chapter" data-level="" data-path="opdracht-9-rmarkdown-parameters.html"><a href="opdracht-9-rmarkdown-parameters.html#covid-19-rapport-met-parametrisering"><i class="fa fa-check"></i>9.2: COVID-19-rapport met parametrisering</a></li>
 </ul></li>
 </ul>
 

diff --git a/Portfolio/_book/opdracht-1-reproduceerbaar-onderzoek.html b/Portfolio/_book/opdracht-1-reproduceerbaar-onderzoek.html
@@ -178,8 +178,8 @@ div.csl-indent {
 <li class="chapter" data-level="" data-path="opdracht-8-een-r-package-bouwen.html"><a href="opdracht-8-een-r-package-bouwen.html"><i class="fa fa-check"></i>Opdracht 8: Een R package bouwen</a></li>
 <li class="chapter" data-level="" data-path="opdracht-9-rmarkdown-parameters-presentations.html"><a href="opdracht-9-rmarkdown-parameters-presentations.html"><i class="fa fa-check"></i>Opdracht 9: RMarkdown parameters &amp; presentations</a>
 <ul>
-<li class="chapter" data-level="" data-path="opdracht-9-rmarkdown-parameters-presentations.html"><a href="opdracht-9-rmarkdown-parameters-presentations.html#covid-19-rapport-zonder-parametrisering"><i class="fa fa-check"></i>COVID-19-rapport zonder parametrisering</a></li>
-<li class="chapter" data-level="" data-path="opdracht-9-rmarkdown-parameters-presentations.html"><a href="opdracht-9-rmarkdown-parameters-presentations.html#covid-19-rapport-met-parametrisering"><i class="fa fa-check"></i>COVID-19-rapport met parametrisering</a></li>
+<li class="chapter" data-level="" data-path="opdracht-9-rmarkdown-parameters-presentations.html"><a href="opdracht-9-rmarkdown-parameters-presentations.html#covid-19-rapport-zonder-parametrisering"><i class="fa fa-check"></i>9.1: COVID-19-rapport zonder parametrisering</a></li>
+<li class="chapter" data-level="" data-path="opdracht-9-rmarkdown-parameters-presentations.html"><a href="opdracht-9-rmarkdown-parameters-presentations.html#covid-19-rapport-met-parametrisering"><i class="fa fa-check"></i>9.2: COVID-19-rapport met parametrisering</a></li>
 </ul></li>
 </ul>
 

diff --git a/Portfolio/_book/opdracht-2-gegevensbeheer.html b/Portfolio/_book/opdracht-2-gegevensbeheer.html
@@ -178,8 +178,8 @@ div.csl-indent {
 <li class="chapter" data-level="" data-path="opdracht-8-een-r-package-bouwen.html"><a href="opdracht-8-een-r-package-bouwen.html"><i class="fa fa-check"></i>Opdracht 8: Een R package bouwen</a></li>
 <li class="chapter" data-level="" data-path="opdracht-9-rmarkdown-parameters-presentations.html"><a href="opdracht-9-rmarkdown-parameters-presentations.html"><i class="fa fa-check"></i>Opdracht 9: RMarkdown parameters &amp; presentations</a>
 <ul>
-<li class="chapter" data-level="" data-path="opdracht-9-rmarkdown-parameters-presentations.html"><a href="opdracht-9-rmarkdown-parameters-presentations.html#covid-19-rapport-zonder-parametrisering"><i class="fa fa-check"></i>COVID-19-rapport zonder parametrisering</a></li>
-<li class="chapter" data-level="" data-path="opdracht-9-rmarkdown-parameters-presentations.html"><a href="opdracht-9-rmarkdown-parameters-presentations.html#covid-19-rapport-met-parametrisering"><i class="fa fa-check"></i>COVID-19-rapport met parametrisering</a></li>
+<li class="chapter" data-level="" data-path="opdracht-9-rmarkdown-parameters-presentations.html"><a href="opdracht-9-rmarkdown-parameters-presentations.html#covid-19-rapport-zonder-parametrisering"><i class="fa fa-check"></i>9.1: COVID-19-rapport zonder parametrisering</a></li>
+<li class="chapter" data-level="" data-path="opdracht-9-rmarkdown-parameters-presentations.html"><a href="opdracht-9-rmarkdown-parameters-presentations.html#covid-19-rapport-met-parametrisering"><i class="fa fa-check"></i>9.2: COVID-19-rapport met parametrisering</a></li>
 </ul></li>
 </ul>
 

diff --git a/Portfolio/_book/opdracht-3-gebruik-van-git-en-github.html b/Portfolio/_book/opdracht-3-gebruik-van-git-en-github.html
@@ -178,8 +178,8 @@ div.csl-indent {
 <li class="chapter" data-level="" data-path="opdracht-8-een-r-package-bouwen.html"><a href="opdracht-8-een-r-package-bouwen.html"><i class="fa fa-check"></i>Opdracht 8: Een R package bouwen</a></li>
 <li class="chapter" data-level="" data-path="opdracht-9-rmarkdown-parameters-presentations.html"><a href="opdracht-9-rmarkdown-parameters-presentations.html"><i class="fa fa-check"></i>Opdracht 9: RMarkdown parameters &amp; presentations</a>
 <ul>
-<li class="chapter" data-level="" data-path="opdracht-9-rmarkdown-parameters-presentations.html"><a href="opdracht-9-rmarkdown-parameters-presentations.html#covid-19-rapport-zonder-parametrisering"><i class="fa fa-check"></i>COVID-19-rapport zonder parametrisering</a></li>
-<li class="chapter" data-level="" data-path="opdracht-9-rmarkdown-parameters-presentations.html"><a href="opdracht-9-rmarkdown-parameters-presentations.html#covid-19-rapport-met-parametrisering"><i class="fa fa-check"></i>COVID-19-rapport met parametrisering</a></li>
+<li class="chapter" data-level="" data-path="opdracht-9-rmarkdown-parameters-presentations.html"><a href="opdracht-9-rmarkdown-parameters-presentations.html#covid-19-rapport-zonder-parametrisering"><i class="fa fa-check"></i>9.1: COVID-19-rapport zonder parametrisering</a></li>
+<li class="chapter" data-level="" data-path="opdracht-9-rmarkdown-parameters-presentations.html"><a href="opdracht-9-rmarkdown-parameters-presentations.html#covid-19-rapport-met-parametrisering"><i class="fa fa-check"></i>9.2: COVID-19-rapport met parametrisering</a></li>
 </ul></li>
 </ul>
 

diff --git a/Portfolio/_book/opdracht-5-gebruik-van-zotero.html b/Portfolio/_book/opdracht-5-gebruik-van-zotero.html
@@ -178,8 +178,8 @@ div.csl-indent {
 <li class="chapter" data-level="" data-path="opdracht-8-een-r-package-bouwen.html"><a href="opdracht-8-een-r-package-bouwen.html"><i class="fa fa-check"></i>Opdracht 8: Een R package bouwen</a></li>
 <li class="chapter" data-level="" data-path="opdracht-9-rmarkdown-parameters-presentations.html"><a href="opdracht-9-rmarkdown-parameters-presentations.html"><i class="fa fa-check"></i>Opdracht 9: RMarkdown parameters &amp; presentations</a>
 <ul>
-<li class="chapter" data-level="" data-path="opdracht-9-rmarkdown-parameters-presentations.html"><a href="opdracht-9-rmarkdown-parameters-presentations.html#covid-19-rapport-zonder-parametrisering"><i class="fa fa-check"></i>COVID-19-rapport zonder parametrisering</a></li>
-<li class="chapter" data-level="" data-path="opdracht-9-rmarkdown-parameters-presentations.html"><a href="opdracht-9-rmarkdown-parameters-presentations.html#covid-19-rapport-met-parametrisering"><i class="fa fa-check"></i>COVID-19-rapport met parametrisering</a></li>
+<li class="chapter" data-level="" data-path="opdracht-9-rmarkdown-parameters-presentations.html"><a href="opdracht-9-rmarkdown-parameters-presentations.html#covid-19-rapport-zonder-parametrisering"><i class="fa fa-check"></i>9.1: COVID-19-rapport zonder parametrisering</a></li>
+<li class="chapter" data-level="" data-path="opdracht-9-rmarkdown-parameters-presentations.html"><a href="opdracht-9-rmarkdown-parameters-presentations.html#covid-19-rapport-met-parametrisering"><i class="fa fa-check"></i>9.2: COVID-19-rapport met parametrisering</a></li>
 </ul></li>
 </ul>
 

diff --git a/Portfolio/_book/opdracht-6-output-pages.html b/Portfolio/_book/opdracht-6-output-pages.html
@@ -178,8 +178,8 @@ div.csl-indent {
 <li class="chapter" data-level="" data-path="opdracht-8-een-r-package-bouwen.html"><a href="opdracht-8-een-r-package-bouwen.html"><i class="fa fa-check"></i>Opdracht 8: Een R package bouwen</a></li>
 <li class="chapter" data-level="" data-path="opdracht-9-rmarkdown-parameters-presentations.html"><a href="opdracht-9-rmarkdown-parameters-presentations.html"><i class="fa fa-check"></i>Opdracht 9: RMarkdown parameters &amp; presentations</a>
 <ul>
-<li class="chapter" data-level="" data-path="opdracht-9-rmarkdown-parameters-presentations.html"><a href="opdracht-9-rmarkdown-parameters-presentations.html#covid-19-rapport-zonder-parametrisering"><i class="fa fa-check"></i>COVID-19-rapport zonder parametrisering</a></li>
-<li class="chapter" data-level="" data-path="opdracht-9-rmarkdown-parameters-presentations.html"><a href="opdracht-9-rmarkdown-parameters-presentations.html#covid-19-rapport-met-parametrisering"><i class="fa fa-check"></i>COVID-19-rapport met parametrisering</a></li>
+<li class="chapter" data-level="" data-path="opdracht-9-rmarkdown-parameters-presentations.html"><a href="opdracht-9-rmarkdown-parameters-presentations.html#covid-19-rapport-zonder-parametrisering"><i class="fa fa-check"></i>9.1: COVID-19-rapport zonder parametrisering</a></li>
+<li class="chapter" data-level="" data-path="opdracht-9-rmarkdown-parameters-presentations.html"><a href="opdracht-9-rmarkdown-parameters-presentations.html#covid-19-rapport-met-parametrisering"><i class="fa fa-check"></i>9.2: COVID-19-rapport met parametrisering</a></li>
 </ul></li>
 </ul>
 

diff --git a/Portfolio/_book/opdracht-7-relationele-data-en-databases.html b/Portfolio/_book/opdracht-7-relationele-data-en-databases.html
@@ -178,8 +178,8 @@ div.csl-indent {
 <li class="chapter" data-level="" data-path="opdracht-8-een-r-package-bouwen.html"><a href="opdracht-8-een-r-package-bouwen.html"><i class="fa fa-check"></i>Opdracht 8: Een R package bouwen</a></li>
 <li class="chapter" data-level="" data-path="opdracht-9-rmarkdown-parameters-presentations.html"><a href="opdracht-9-rmarkdown-parameters-presentations.html"><i class="fa fa-check"></i>Opdracht 9: RMarkdown parameters &amp; presentations</a>
 <ul>
-<li class="chapter" data-level="" data-path="opdracht-9-rmarkdown-parameters-presentations.html"><a href="opdracht-9-rmarkdown-parameters-presentations.html#covid-19-rapport-zonder-parametrisering"><i class="fa fa-check"></i>COVID-19-rapport zonder parametrisering</a></li>
-<li class="chapter" data-level="" data-path="opdracht-9-rmarkdown-parameters-presentations.html"><a href="opdracht-9-rmarkdown-parameters-presentations.html#covid-19-rapport-met-parametrisering"><i class="fa fa-check"></i>COVID-19-rapport met parametrisering</a></li>
+<li class="chapter" data-level="" data-path="opdracht-9-rmarkdown-parameters-presentations.html"><a href="opdracht-9-rmarkdown-parameters-presentations.html#covid-19-rapport-zonder-parametrisering"><i class="fa fa-check"></i>9.1: COVID-19-rapport zonder parametrisering</a></li>
+<li class="chapter" data-level="" data-path="opdracht-9-rmarkdown-parameters-presentations.html"><a href="opdracht-9-rmarkdown-parameters-presentations.html#covid-19-rapport-met-parametrisering"><i class="fa fa-check"></i>9.2: COVID-19-rapport met parametrisering</a></li>
 </ul></li>
 </ul>
 

diff --git a/Portfolio/_book/opdracht-8-een-r-package-bouwen.html b/Portfolio/_book/opdracht-8-een-r-package-bouwen.html
@@ -178,8 +178,8 @@ div.csl-indent {
 <li class="chapter" data-level="" data-path="opdracht-8-een-r-package-bouwen.html"><a href="opdracht-8-een-r-package-bouwen.html"><i class="fa fa-check"></i>Opdracht 8: Een R package bouwen</a></li>
 <li class="chapter" data-level="" data-path="opdracht-9-rmarkdown-parameters-presentations.html"><a href="opdracht-9-rmarkdown-parameters-presentations.html"><i class="fa fa-check"></i>Opdracht 9: RMarkdown parameters &amp; presentations</a>
 <ul>
-<li class="chapter" data-level="" data-path="opdracht-9-rmarkdown-parameters-presentations.html"><a href="opdracht-9-rmarkdown-parameters-presentations.html#covid-19-rapport-zonder-parametrisering"><i class="fa fa-check"></i>COVID-19-rapport zonder parametrisering</a></li>
-<li class="chapter" data-level="" data-path="opdracht-9-rmarkdown-parameters-presentations.html"><a href="opdracht-9-rmarkdown-parameters-presentations.html#covid-19-rapport-met-parametrisering"><i class="fa fa-check"></i>COVID-19-rapport met parametrisering</a></li>
+<li class="chapter" data-level="" data-path="opdracht-9-rmarkdown-parameters-presentations.html"><a href="opdracht-9-rmarkdown-parameters-presentations.html#covid-19-rapport-zonder-parametrisering"><i class="fa fa-check"></i>9.1: COVID-19-rapport zonder parametrisering</a></li>
+<li class="chapter" data-level="" data-path="opdracht-9-rmarkdown-parameters-presentations.html"><a href="opdracht-9-rmarkdown-parameters-presentations.html#covid-19-rapport-met-parametrisering"><i class="fa fa-check"></i>9.2: COVID-19-rapport met parametrisering</a></li>
 </ul></li>
 </ul>
 
